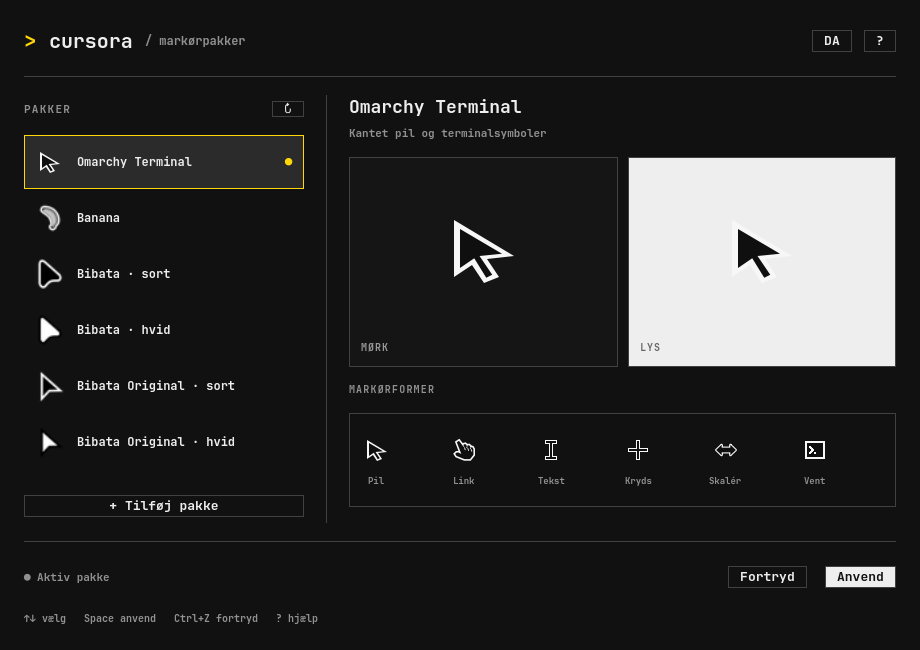
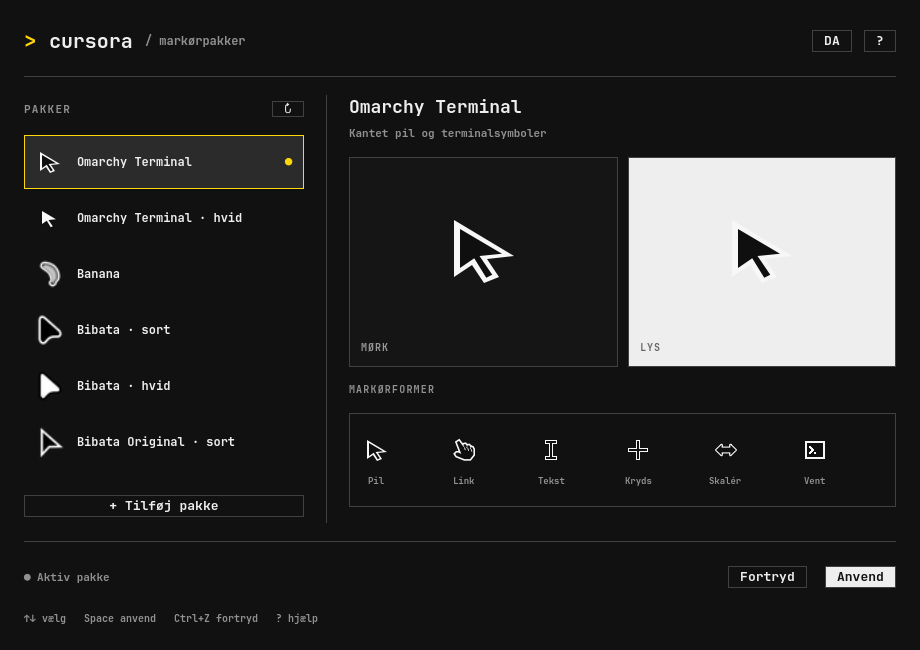
Add the light Omarchy Terminal pack and redesigned grab cursors

diff --git a/src/Main.qml b/src/Main.qml
@@ -25,7 +25,9 @@ ApplicationWindow {
 
     function titleFor(id) { return (translator.language, backend.themeTitle(id)); }
     function descriptionFor(id) { return (translator.language, backend.themeDescription(id)); }
-    function isTerminalPack(id) { return id === "Cursora-Omarchy-Terminal"; }
+    function isTerminalPack(id) {
+        return id === "Cursora-Omarchy-Terminal" || id === "Cursora-Omarchy-Terminal-Light";
+    }
     function applySelection() {
         if (busy || themeList.count === 0) return;
         busy = true;

diff --git a/src/omarchycursor.cpp b/src/omarchycursor.cpp
@@ -18,39 +18,50 @@ constexpr int StraightResizePadding = 4;
 constexpr QColor Ink(15, 15, 15);
 constexpr QColor Paper(247, 247, 247);
 
+struct Palette {
+    QColor fill;
+    QColor outline;
+};
+
 void line(QPainterPath &path, std::initializer_list<QPointF> points) {
     auto point = points.begin();
     path.moveTo(*point++);
     for (; point != points.end(); ++point) path.lineTo(*point);
 }
 
-void drawArrow(QPainter &painter) {
+void drawArrow(QPainter &painter, const Palette &palette) {
     // The nested shapes give the pointer one outline without a shadow.
     QPainterPath outline, body;
     line(outline, {{2, 2}, {22, 14}, {13, 15}, {17, 21},
                    {12, 23}, {8, 17}, {2, 21}, {2, 2}});
     line(body, {{4, 5}, {18, 13.25}, {10.5, 14}, {14.75, 20.25},
                 {12.75, 21.25}, {8.75, 14.75}, {4, 18}, {4, 5}});
-    painter.fillPath(outline, Paper);
-    painter.fillPath(body, Ink);
+    painter.fillPath(outline, palette.outline);
+    painter.fillPath(body, palette.fill);
 }
 
-void drawGlyph(QPainter &painter, const QPainterPath &path, bool filled = false) {
+void drawGlyph(QPainter &painter, const QPainterPath &path, const Palette &palette, bool filled = false) {
     const auto pen = [](QColor color, qreal width) {
         return QPen(color, width, Qt::SolidLine, Qt::SquareCap, Qt::MiterJoin);
     };
     painter.setBrush(Qt::NoBrush);
-    painter.setPen(pen(Paper, 3.2));
+    painter.setPen(pen(palette.outline, 3.2));
     painter.drawPath(path);
-    painter.setPen(filled ? QPen(Qt::NoPen) : pen(Ink, 1.2));
-    if (filled) painter.setBrush(Ink);
+    painter.setPen(filled ? QPen(Qt::NoPen) : pen(palette.fill, 1.2));
+    if (filled) painter.setBrush(palette.fill);
     painter.drawPath(path);
 }
 
-void drawOutlinedShape(QPainter &painter, const QPainterPath &path, qreal outlineWidth,
+void drawOutlinedShape(QPainter &painter, const QPainterPath &path, const Palette &palette, qreal outlineWidth,
                        Qt::PenJoinStyle join) {
-    painter.strokePath(path, QPen(Paper, outlineWidth, Qt::SolidLine, Qt::SquareCap, join));
-    painter.fillPath(path, Ink);
+    painter.strokePath(path, QPen(palette.outline, outlineWidth, Qt::SolidLine, Qt::SquareCap, join));
+    painter.fillPath(path, palette.fill);
+}
+
+void drawHand(QPainter &painter, const QPainterPath &shape, const QPainterPath &creases, const Palette &palette) {
+    painter.setRenderHint(QPainter::Antialiasing);
+    drawOutlinedShape(painter, shape, palette, 3.2, Qt::MiterJoin);
+    painter.strokePath(creases, QPen(palette.outline, .9, Qt::SolidLine, Qt::SquareCap, Qt::MiterJoin));
 }
 
 QPainterPath linkGlyph() {
@@ -64,6 +75,36 @@ QPainterPath linkGlyph() {
                 {4.65, 14.55}, {6.45, 14.55}, {9.35, 16.0}});
     path.closeSubpath();
     return path;
+}
+
+void drawGrabHand(QPainter &painter, bool gripping, const Palette &palette) {
+    QPainterPath shape, creases;
+    if (gripping) {
+        line(shape, {{5.1, 10.15}, {5.5, 8.45}, {6.9, 7.45}, {8.55, 7.8}, {9.8, 8.9},
+                     {9.2, 7.05}, {10.4, 6.15}, {12.1, 6.65}, {13.35, 8.6},
+                     {13.3, 7.6}, {14.65, 7.4}, {16.15, 8.5}, {17.1, 10.25},
+                     {17.55, 9.35}, {19, 9.8}, {20.55, 11.4}, {21.15, 14.8},
+                     {20.35, 17.85}, {17.65, 21.05}, {11.9, 21.05}, {7.25, 19.3},
+                     {4.75, 16.8}, {3.55, 14.25}, {4.2, 12.25}, {5.9, 11.65}, {8.45, 12.45}});
+        line(creases, {{9.8, 8.9}, {10.55, 10.4}, {10.3, 12.0}});
+        line(creases, {{13.35, 8.6}, {14.15, 10.55}, {14, 12.7}});
+        line(creases, {{17.1, 10.25}, {17.85, 11.9}, {17.55, 13.55}});
+        // The thumb folds across the curled fingers.
+        line(creases, {{8.45, 12.45}, {10.9, 14.65}, {13.25, 14.8}, {14.45, 14.15}});
+    } else {
+        line(shape, {{4.55, 6.55}, {5.7, 5.5}, {7.15, 5.6}, {10.15, 10.25},
+                     {7.4, 4.4}, {8.1, 3.25}, {9.65, 2.85}, {10.7, 3.7}, {13.05, 9.4},
+                     {11.55, 5}, {12.6, 4.35}, {14.05, 4.65}, {16.05, 10.65},
+                     {15.55, 7.45}, {16.9, 7.05}, {18.3, 7.75}, {20.45, 12.2},
+                     {21, 15.6}, {20, 18.6}, {17.4, 21}, {11.65, 21}, {7.25, 18.95},
+                     {3.7, 15.65}, {3.25, 14.1}, {4.4, 12.9}, {6.25, 13.45},
+                     {8.95, 15.4}, {7.7, 12.4}});
+        line(creases, {{10.15, 10.25}, {10.85, 11.4}, {11.35, 12.85}});
+        line(creases, {{13.05, 9.4}, {13.85, 10.8}, {14.45, 12.65}});
+        line(creases, {{16.05, 10.65}, {16.85, 11.9}, {17.35, 13.3}});
+    }
+    shape.closeSubpath();
+    drawHand(painter, shape, creases, palette);
 }
 
 QPainterPath resizeGlyph(const Kind &direction) {
@@ -118,7 +159,7 @@ QPoint logicalHotspot(const Kind &kind) {
     return {12, 12};
 }
 
-QImage render(const Kind &kind, int size, int frame, int padding) {
+QImage render(const Kind &kind, int size, int frame, int padding, const Palette &palette) {
     const int extent = size + 2 * padding;
     QImage image(extent, extent, QImage::Format_ARGB32_Premultiplied);
     image.fill(Qt::transparent);
@@ -132,32 +173,27 @@ QImage render(const Kind &kind, int size, int frame, int padding) {
         // Rasterize the original silhouette at this frame's actual size.
         // Smooth its edge coverage without resampling a smaller cursor.
         painter.setRenderHint(QPainter::Antialiasing);
-        drawArrow(painter);
+        drawArrow(painter, palette);
         painter.end();
         return image;
-    } else if (kind == "hand2" || kind.endsWith("-resize")) {
-        const bool link = kind == "hand2";
+    } else if (kind == "hand2") {
+        // Short creases make the bent fingers readable at the native size.
+        QPainterPath creases;
+        line(creases, {{11.65, 8.8}, {12.55, 9.7}, {13.15, 11.65}});
+        line(creases, {{15.3, 9.6}, {16.0, 10.45}, {16.45, 12.35}});
+        line(creases, {{18.9, 10.65}, {19.45, 11.5}, {19.65, 13.1}});
+        drawHand(painter, linkGlyph(), creases, palette);
+        painter.end();
+        return image;
+    } else if (kind.endsWith("-resize")) {
         painter.setRenderHint(QPainter::Antialiasing);
-        drawOutlinedShape(painter, link ? linkGlyph() : resizeGlyph(kind.chopped(7)),
-                          link ? 3.2 : 2.2, link ? Qt::MiterJoin : Qt::RoundJoin);
-        if (link) {
-            // Short creases make the bent fingers readable at the native size.
-            QPainterPath creases;
-            line(creases, {{11.65, 8.8}, {12.55, 9.7}, {13.15, 11.65}});
-            line(creases, {{15.3, 9.6}, {16.0, 10.45}, {16.45, 12.35}});
-            line(creases, {{18.9, 10.65}, {19.45, 11.5}, {19.65, 13.1}});
-            painter.strokePath(creases, QPen(Paper, .9, Qt::SolidLine, Qt::SquareCap, Qt::MiterJoin));
-        }
+        drawOutlinedShape(painter, resizeGlyph(kind.chopped(7)), palette, 2.2, Qt::RoundJoin);
         painter.end();
         return image;
     } else if (kind == "grab" || kind == "grabbing") {
-        const int top = kind == "grab" ? 5 : 8;
-        line(path, {{5, 11}, {7, 11}, {7, qreal(top)}, {9, qreal(top)},
-                    {9, 9}, {11, 9}, {11, qreal(top - 1)}, {13, qreal(top - 1)},
-                    {13, 9}, {15, 9}, {15, qreal(top)}, {17, qreal(top)},
-                    {17, 10}, {20, 10}, {20, 16}, {17, 21}, {10, 21}, {5, 15}, {5, 11}});
-        path.closeSubpath();
-        drawGlyph(painter, path, true);
+        drawGrabHand(painter, kind == "grabbing", palette);
+        painter.end();
+        return image;
     } else if (kind == "xterm" || kind == "vertical-text") {
         line(path, {{8, 4}, {16, 4}});
         line(path, {{12, 4}, {12, 20}});
@@ -168,7 +204,7 @@ QImage render(const Kind &kind, int size, int frame, int padding) {
             transform.rotate(90);
             path = transform.map(path);
         }
-        drawGlyph(painter, path);
+        drawGlyph(painter, path, palette);
     } else if (kind == "crosshair" || kind == "cell" || kind == "move") {
         line(path, {{12, 4}, {12, 20}});
         line(path, {{4, 12}, {20, 12}});
@@ -179,23 +215,23 @@ QImage render(const Kind &kind, int size, int frame, int padding) {
             line(path, {{7, 9}, {4, 12}, {7, 15}});
             line(path, {{17, 9}, {20, 12}, {17, 15}});
         }
-        drawGlyph(painter, path);
+        drawGlyph(painter, path, palette);
     } else if (kind == "watch" || kind == "progress") {
         if (kind == "progress") {
             painter.save();
             painter.scale(.66, .66);
-            drawArrow(painter);
+            drawArrow(painter, palette);
             painter.restore();
             painter.translate(12, 12);
             painter.scale(.45, .45);
         }
         path.addRect(QRectF(4, 5, 16, 14));
-        drawGlyph(painter, path, true);
+        drawGlyph(painter, path, palette, true);
         QPainterPath prompt;
         line(prompt, {{7, 9}, {10, 12}, {7, 15}});
-        painter.setPen(QPen(Paper, 1.5, Qt::SolidLine, Qt::SquareCap, Qt::MiterJoin));
+        painter.setPen(QPen(palette.outline, 1.5, Qt::SolidLine, Qt::SquareCap, Qt::MiterJoin));
         painter.drawPath(prompt);
-        painter.fillRect(QRectF(11 + 2 * frame, 14, 2, 2), Paper);
+        painter.fillRect(QRectF(11 + 2 * frame, 14, 2, 2), palette.outline);
     } else if (kind == "not-allowed" || kind == "zoom-in" || kind == "zoom-out") {
         if (kind == "not-allowed") {
             path.addRect(QRectF(5, 5, 14, 14));
@@ -206,14 +242,14 @@ QImage render(const Kind &kind, int size, int frame, int padding) {
             line(path, {{7, 9.5}, {12, 9.5}});
             if (kind == "zoom-in") line(path, {{9.5, 7}, {9.5, 12}});
         }
-        drawGlyph(painter, path);
+        drawGlyph(painter, path, palette);
     } else {
         painter.save();
         painter.scale(.75, .75);
-        drawArrow(painter);
+        drawArrow(painter, palette);
         painter.restore();
         path.addRect(QRectF(13, 13, 8, 8));
-        drawGlyph(painter, path, true);
+        drawGlyph(painter, path, palette, true);
         QPainterPath badge;
         if (kind == "copy") {
             line(badge, {{15, 17}, {19, 17}});
@@ -228,7 +264,7 @@ QImage render(const Kind &kind, int size, int frame, int padding) {
             line(badge, {{15, 16}, {19, 16}});
             line(badge, {{15, 18}, {19, 18}});
         }
-        painter.setPen(QPen(Paper, 1));
+        painter.setPen(QPen(palette.outline, 1));
         painter.drawPath(badge);
     }
     painter.end();
@@ -245,7 +281,7 @@ QImage render(const Kind &kind, int size, int frame, int padding) {
     return image;
 }
 
-bool writeCursor(const QString &filename, const Kind &kind) {
+bool writeCursor(const QString &filename, const Kind &kind, const Palette &palette) {
     // Rasterize each resolution directly from the artwork. Keep a matching
     // bitmap for 1x, 2x, 3x and 4x output scales.
     constexpr int sizes[]{24, 48, 72, 96};
@@ -270,7 +306,7 @@ bool writeCursor(const QString &filename, const Kind &kind) {
             image->xhot = padding + qRound(hotspot.x() * artScale * size / BaseSize);
             image->yhot = padding + qRound(hotspot.y() * artScale * size / BaseSize);
             image->delay = frames > 1 ? 120 : 0;
-            const QImage pixels = render(kind, size, frame, padding);
+            const QImage pixels = render(kind, size, frame, padding, palette);
             std::memcpy(image->pixels, pixels.constBits(), pixels.sizeInBytes());
             images->images[images->nimage++] = image;
         }
@@ -281,17 +317,19 @@ bool writeCursor(const QString &filename, const Kind &kind) {
 }
 } // namespace
 
-bool createOmarchyCursorPack(const QString &directory, QString *error) {
+bool createOmarchyCursorPack(const QString &directory, bool light, QString *error) {
     if (directory.isEmpty()) { *error = "Missing cursor pack output directory"; return false; }
     const QString cursors = directory + "/cursors";
     if (!QDir().mkpath(cursors)) { *error = "Cannot create " + cursors; return false; }
     QFile index(directory + "/index.theme");
-    const QByteArray metadata = "[Icon Theme]\nName=Omarchy Terminal\n"
+    const QByteArray name = light ? "Omarchy Terminal Light" : "Omarchy Terminal";
+    const QByteArray metadata = "[Icon Theme]\nName=" + name + "\n"
         "Comment=Original monochrome terminal-style cursor pack by Cursora\nX-Cursora-DefaultSize=24\n";
     if (!index.open(QIODevice::WriteOnly) || index.write(metadata) != metadata.size()) {
         *error = "Cannot write " + index.fileName(); return false;
     }
     index.close();
+    const Palette palette = light ? Palette{Paper, Ink} : Palette{Ink, Paper};
     const QList<Kind> shapes{
         "left_ptr", "hand2", "grab", "grabbing", "xterm", "vertical-text", "crosshair", "cell",
         "move", "watch", "progress", "not-allowed", "zoom-in", "zoom-out", "e-resize", "se-resize",
@@ -300,7 +338,7 @@ bool createOmarchyCursorPack(const QString &directory, QString *error) {
     };
     for (const auto &shape : shapes) {
         const QString path = cursors + "/" + QString::fromLatin1(shape);
-        if (!writeCursor(path, shape)) { *error = "Cannot write " + path; return false; }
+        if (!writeCursor(path, shape, palette)) { *error = "Cannot write " + path; return false; }
     }
     const QMap<Kind, Kind> aliases{
         {"default", "left_ptr"}, {"arrow", "left_ptr"}, {"top_left_arrow", "left_ptr"},

diff --git a/tests/check_packs.py b/tests/check_packs.py
@@ -54,6 +54,7 @@ def frames(data):
 archives = {}
 checked_files = checked_frames = 0
 straight_resize = {'n-resize', 'e-resize', 's-resize', 'w-resize'}
+hand_shapes = {'hand2', 'grab', 'grabbing'}
 for theme, pack in packs.items():
     path = root / 'build/themes' / theme
     assert (path / 'COPYING').is_file(), f'Missing license: {theme}'
@@ -64,12 +65,24 @@ for theme, pack in packs.items():
         index = configparser.ConfigParser()
         index.read(path / 'index.theme')
         native = index['Icon Theme'].getint('X-Cursora-DefaultSize')
+        light = pack.get('tone') == 'white'
+        fill, outline = (0xfff7f7f7, 0xff0f0f0f) if light else (0xff0f0f0f, 0xfff7f7f7)
+        dark_cursors = path.with_name('Cursora-Omarchy-Terminal') / 'cursors'
         for cursor in (path / 'cursors').iterdir():
             if cursor.is_symlink():
                 assert cursor.is_file() and '/' not in str(cursor.readlink()), f'Broken alias: {cursor}'
+                if light:
+                    assert cursor.readlink() == (dark_cursors / cursor.name).readlink(), f'Mismatched alias: {cursor}'
                 continue
             images = frames(cursor.read_bytes())
             assert {meta[0] for meta, _ in images} == {native, native * 2, native * 3, native * 4}
+            if light:
+                original = frames((dark_cursors / cursor.name).read_bytes())
+                for (meta, pixels), (dark_meta, dark_pixels) in zip(images, original, strict=True):
+                    assert meta == dark_meta, f'Mismatched frame metadata in {cursor}'
+                    assert all(p >> 24 == d >> 24 for p, d in zip(pixels, dark_pixels)), f'Mismatched alpha in {cursor}'
+                    assert all(abs((p & 255) + (d & 255) - (p >> 24) * 262 / 255) <= 2
+                               for p, d in zip(pixels, dark_pixels)), f'Colors are not swapped in {cursor}'
             for meta, pixels in images:
                 nominal, _, width, height, xhot, yhot, delay = meta
                 extent = nominal * 32 // 24 if cursor.name in straight_resize else nominal
@@ -81,15 +94,13 @@ for theme, pack in packs.items():
                     alpha = [p >> 24 for p in pixels]
                     assert alpha[yhot * width + xhot] > 0, f'Invisible click tip at {nominal}px'
                     assert any(0 < a < 255 for a in alpha), f'Jagged arrow edge at {nominal}px'
-                    assert pixels.count(0xff0f0f0f) >= nominal * nominal // 10, f'Arrow core is too small at {nominal}px'
-                elif cursor.name == 'hand2' or cursor.name.endswith('-resize'):
-                    assert 0xff0f0f0f in pixels, f'Missing dark fill in {cursor} at {nominal}px'
-                    assert any((p >> 24) >= 100 and (p & 255) * 10 >= (p >> 24) * 9 for p in pixels), (
-                        f'Missing bright outline in {cursor} at {nominal}px')
+                    assert pixels.count(fill) >= nominal * nominal // 10, f'Arrow core is too small at {nominal}px'
+                elif cursor.name in hand_shapes or cursor.name.endswith('-resize'):
+                    assert fill in pixels and outline in pixels, f'Missing fill or outline in {cursor} at {nominal}px'
                     assert all(((p >> 16) & 255) == ((p >> 8) & 255) == (p & 255) for p in pixels)
-                    if cursor.name == 'hand2':
-                        assert pixels[yhot * width + xhot] >> 24 > 0, 'Link hotspot misses the fingertip'
-                        assert any(0 < (p >> 24) < 255 for p in pixels), f'Jagged link edge at {nominal}px'
+                    if cursor.name in hand_shapes:
+                        assert pixels[yhot * width + xhot] >> 24 > 0, f'Invisible hand hotspot in {cursor}'
+                        assert any(0 < (p >> 24) < 255 for p in pixels), f'Jagged hand edge in {cursor} at {nominal}px'
                     elif nominal == native:
                         coverage = sum((p >> 24) >= 128 for p in pixels)
                         assert coverage * 100 >= nominal * nominal * 28, f'Resize glyph is too small: {cursor}'

diff --git a/src/backend.cpp b/src/backend.cpp
@@ -112,10 +112,10 @@ void Backend::rescan() {
     std::sort(themes.begin(), themes.end(), [](const QVariant &a, const QVariant &b) {
         const auto x = a.toMap(), y = b.toMap();
         if (x["builtin"].toBool() != y["builtin"].toBool()) return x["builtin"].toBool();
-        if (x["id"] == "Cursora-Omarchy-Terminal") return y["id"] != x["id"];
-        if (y["id"] == "Cursora-Omarchy-Terminal") return false;
         const auto xFamily = x["pack"].toMap().value("family").toString();
         const auto yFamily = y["pack"].toMap().value("family").toString();
+        const bool xTerminal = xFamily == "Omarchy Terminal", yTerminal = yFamily == "Omarchy Terminal";
+        if (xTerminal != yTerminal) return xTerminal;
         const int familyOrder = QString::localeAwareCompare(xFamily, yFamily);
         if (familyOrder != 0) return familyOrder < 0;
         return QString::localeAwareCompare(x["name"].toString(), y["name"].toString()) < 0;

diff --git a/src/main.cpp b/src/main.cpp
@@ -27,7 +27,7 @@ int main(int argc, char *argv[]) {
     }
     QGuiApplication app(argc, argv);
     app.setApplicationName("cursora");
-    app.setApplicationVersion("0.4.9");
+    app.setApplicationVersion("0.5.0");
     app.setDesktopFileName("cursora");
     app.setWindowIcon(QIcon::fromTheme("cursora"));
     QQuickStyle::setStyle("Material");
@@ -39,7 +39,7 @@ int main(int argc, char *argv[]) {
         QString error;
         const bool ok = command == "monochrome-themes"
             ? monochromeThemes(arguments.value(1), &error)
-            : createOmarchyCursorPack(arguments.value(1), &error);
+            : createOmarchyCursorPack(arguments.value(1), arguments.contains("--light"), &error);
         if (!ok) QTextStream(stderr) << error << '\n';
         return ok ? 0 : 1;
     }

diff --git a/src/cursorimages.h b/src/cursorimages.h
@@ -9,4 +9,4 @@ public:
 };
 bool monochromeThemes(const QString &directory, QString *error);
 int nativeCursorSize(const QString &path, int preferred = 24);
-bool createOmarchyCursorPack(const QString &directory, QString *error);
+bool createOmarchyCursorPack(const QString &directory, bool light, QString *error);

diff --git a/README.md b/README.md
@@ -3,11 +3,11 @@
 Cursora — выбор внешнего вида курсора для Omarchy с конфигурацией Hyprland на Lua.
 Выберите пак слева, посмотрите его на светлом и тёмном фоне и нажмите **Применить**.
 
-В комплекте 12 монохромных вариантов семи семейств:
+В комплекте 13 монохромных вариантов семи семейств:
 
 | Семейство | Формы | Варианты |
 | --- | --- | --- |
-| Omarchy Terminal | Угловатая стрелка, терминальные символы и анимация ожидания | Монохромный |
+| Omarchy Terminal | Угловатая стрелка, терминальные символы и анимация ожидания | Чёрный и белый |
 | [Bibata Modern](https://github.com/ful1e5/Bibata_Cursor) | Мягкие, скруглённые | Чёрный и белый |
 | [BreezeX](https://github.com/ful1e5/BreezeX_Cursor) | Острые, угловатые | Чёрный и белый |
 | [Phinger](https://github.com/phisch/phinger-cursors) | Компактная стрелка, выразительные руки | Чёрный и белый |
